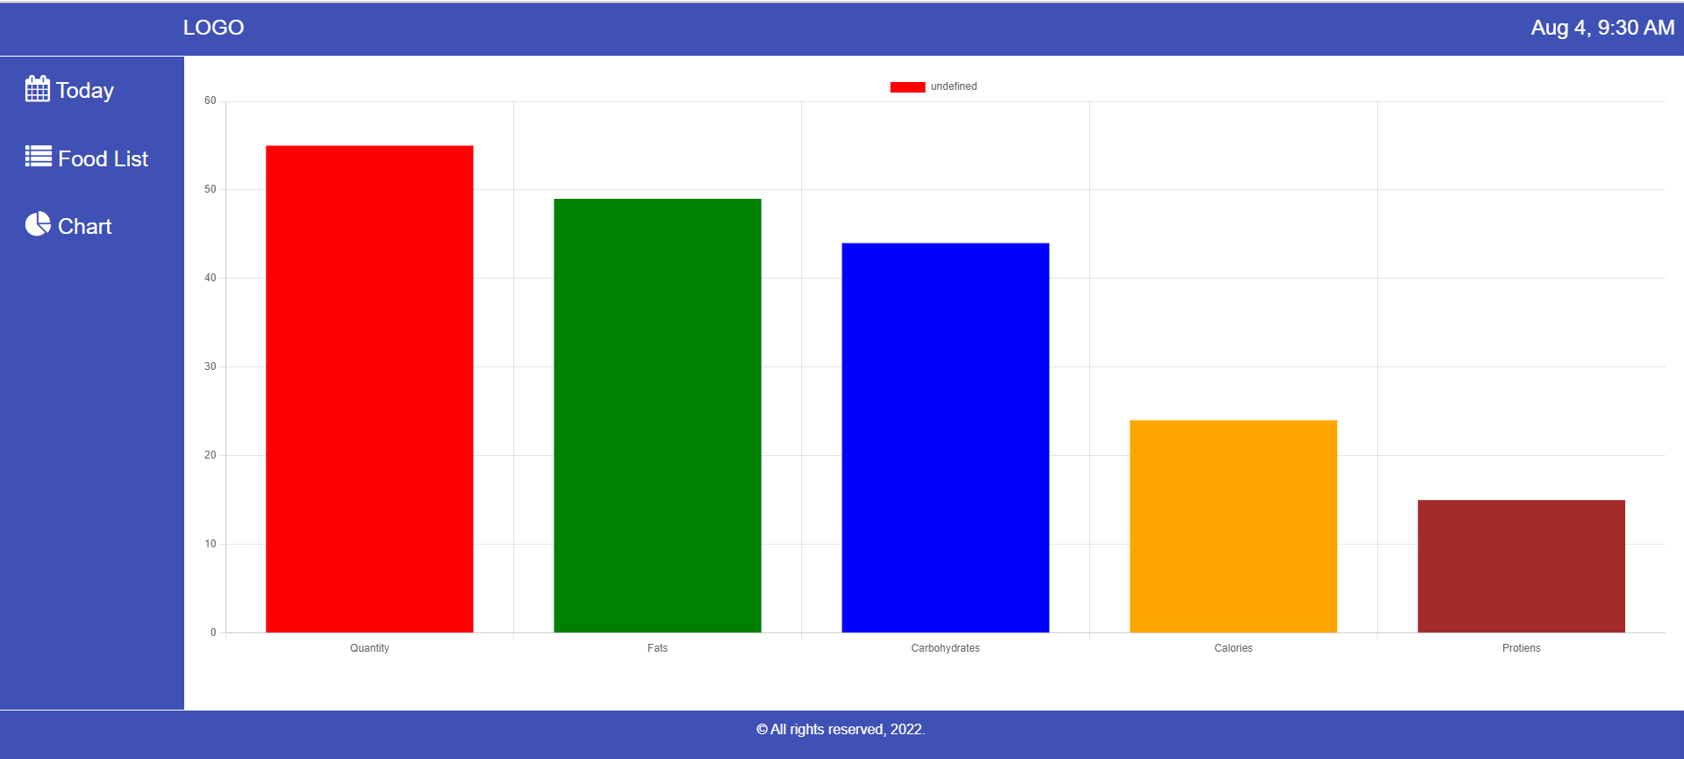
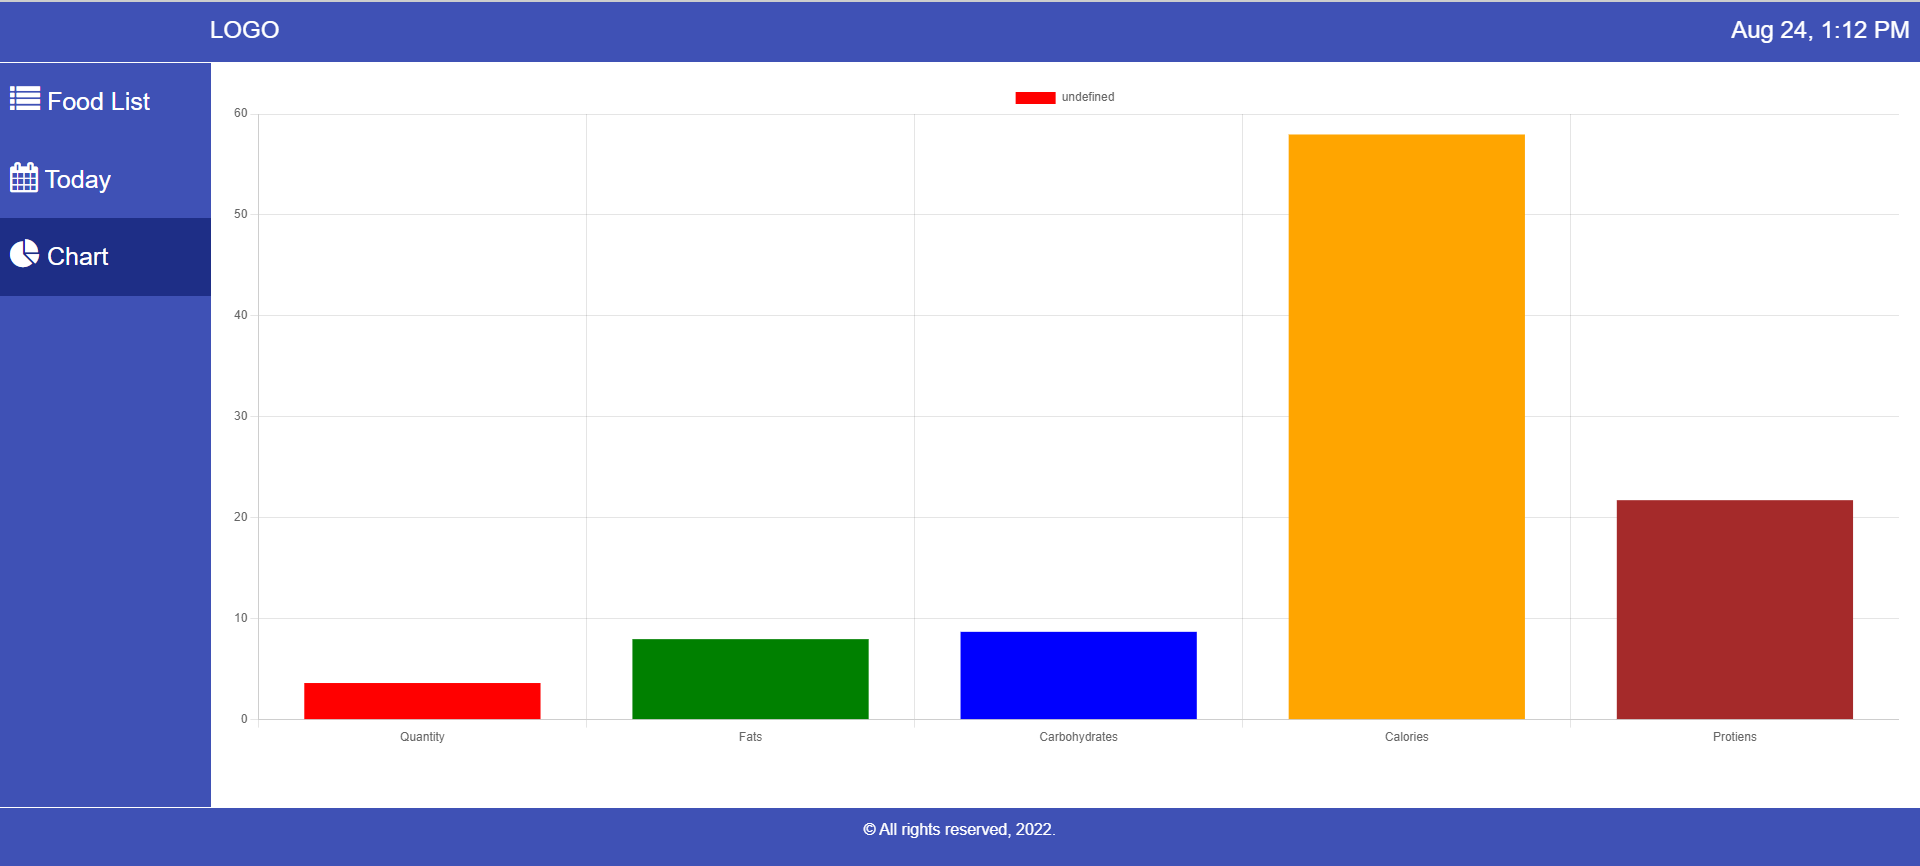
Added Screenshot to ReadMe file

diff --git a/src/app/app.component.html b/src/app/app.component.html
@@ -8,13 +8,13 @@
 </header>
 <section>
   <nav>
-    <a routerLink="list"> 
+    <a routerLink="list" routerLinkActive='active' > 
       <i class="fa fa-list" style="font-size:30px;color:white"></i>  Food List
     </a>
-    <a routerLink="today"> 
+    <a routerLink="today" routerLinkActive='active'> 
       <i class="fa fa-calendar" style="font-size:30px;color:white"></i> Today
     </a>
-    <a routerLink="chart"> 
+    <a routerLink="chart" routerLinkActive='active'> 
       <i class="fa fa-pie-chart" style="font-size:30px;color:white"></i> Chart
     </a>
   </nav>

diff --git a/src/app/app.component.css b/src/app/app.component.css
@@ -10,6 +10,9 @@
     overflow: auto;
   }
   
+ 
+  
+  
   .sidebar a {
     display: block;
     color: white;
@@ -74,7 +77,6 @@ nav {
     float: left;
     width: 11%;
     background-color: #3f51b5;
-    padding-left: 20px;
     height: calc(100vh - 120px);
     border-bottom: 1px solid white;
     border-top: 1px solid white;

diff --git a/README.md b/README.md
@@ -18,6 +18,11 @@ Run `ng build` to build the project. The build artifacts will be stored in the `
 ![](src/assets/images/list.PNG)
 
 
+## Today's Menu List 
+
+![](src/assets/images/today-menu.PNG)
+
+
 ## Chart
 
 ![](src/assets/images/chart.PNG)
